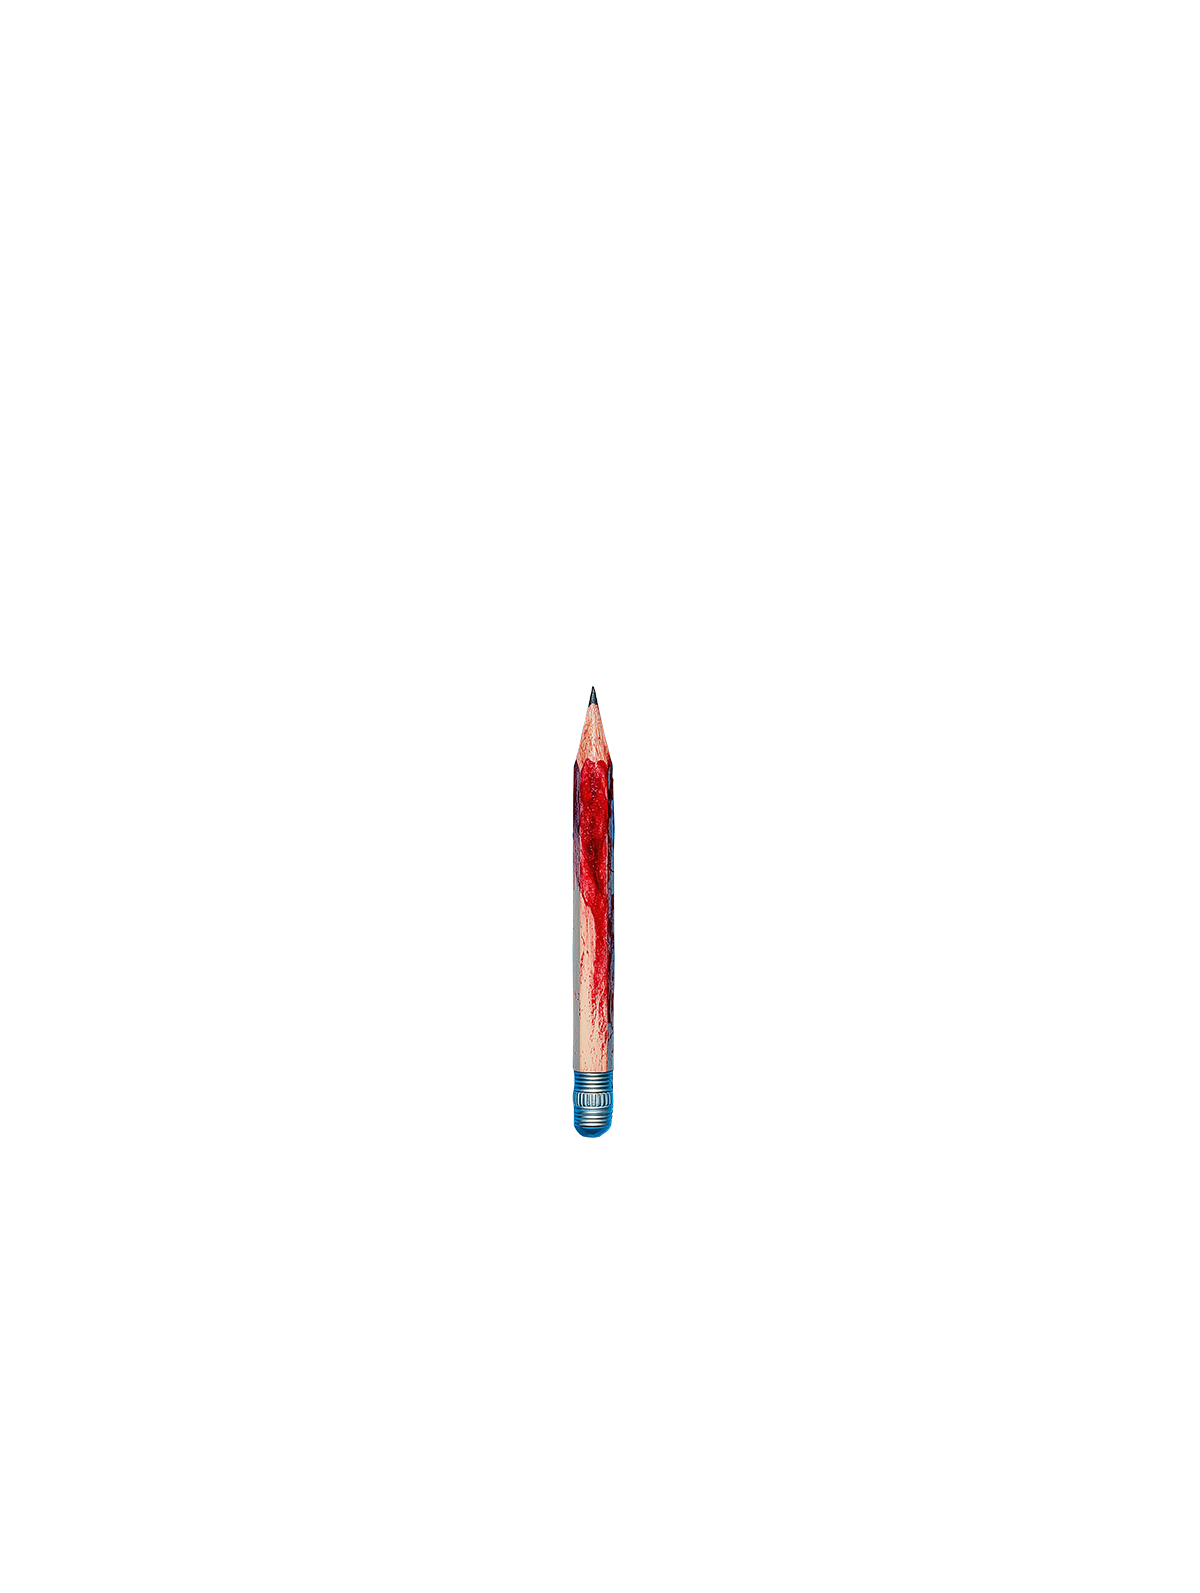
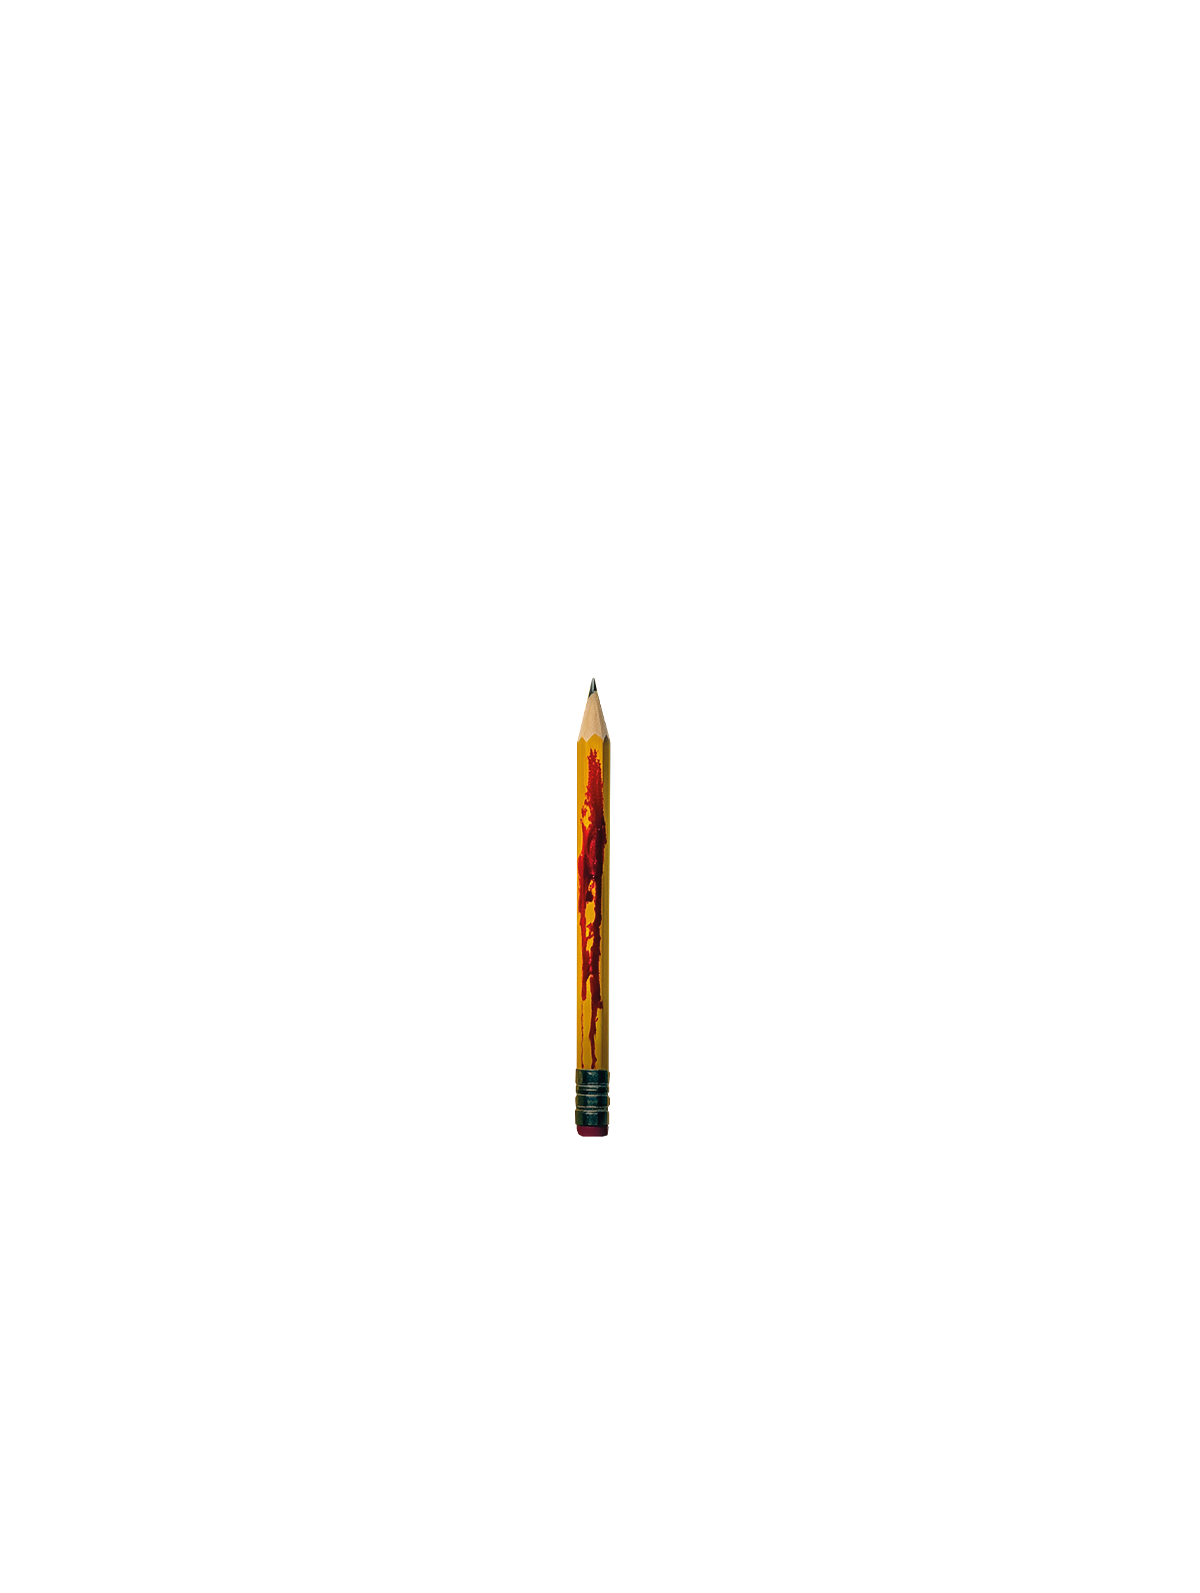
Change background colour to yellow

Changed region(s): [[0.4625, 0.4306, 0.5242, 0.7075]]

diff --git a/src/components/layout.css b/src/components/layout.css
@@ -1,6 +1,6 @@
 :root {
   --color-text: #443A39;
-  --color-text-highlight: #CBDCDC;
+  --color-text-highlight: #922A1F;
 
   --border-width: 6px;
   --border: var(--border-width) solid var(--color-text);
